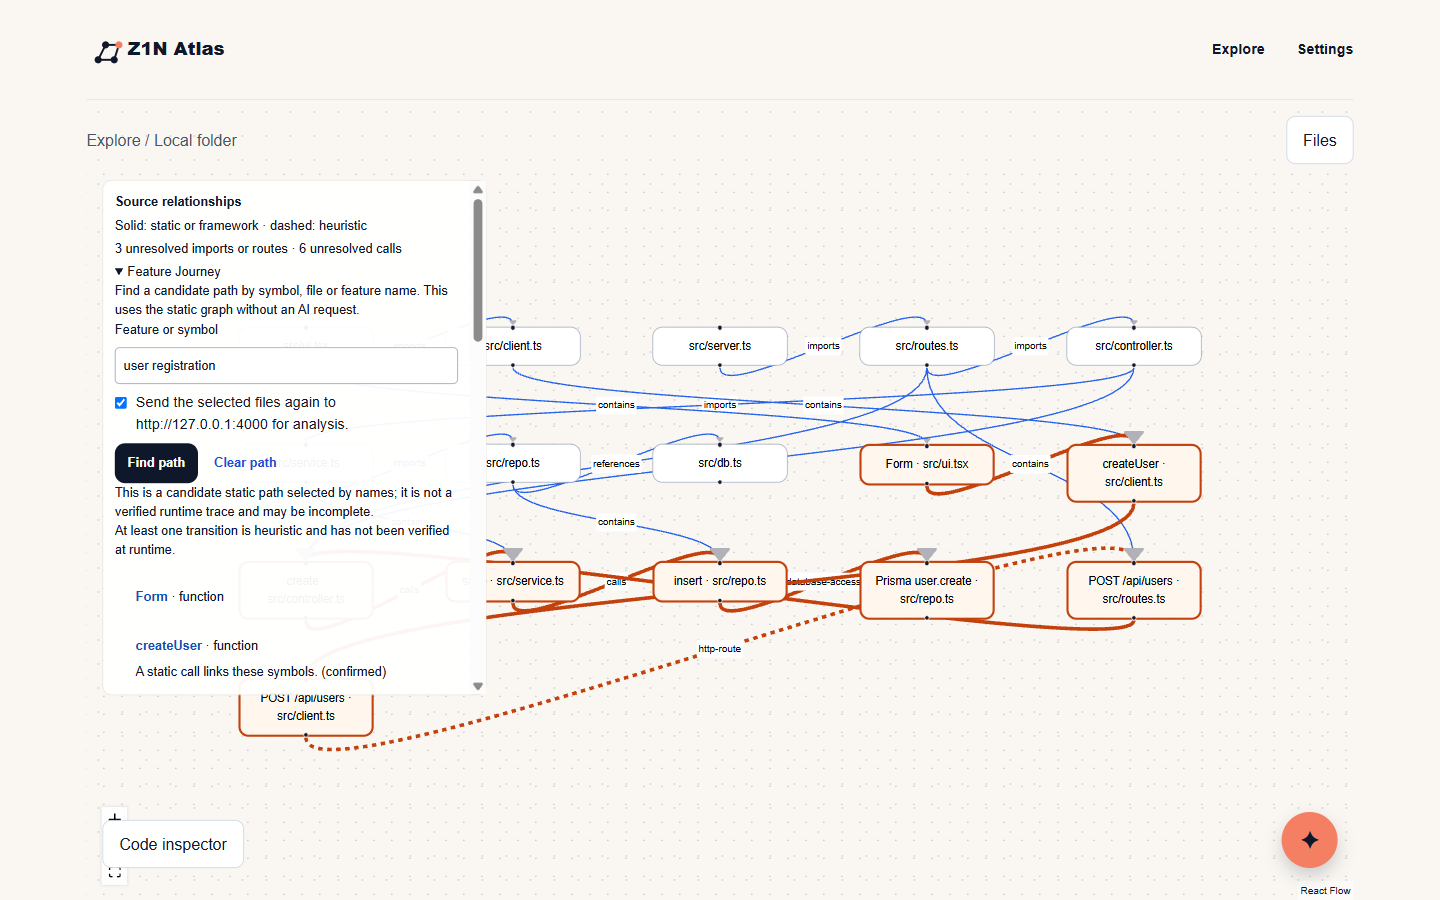
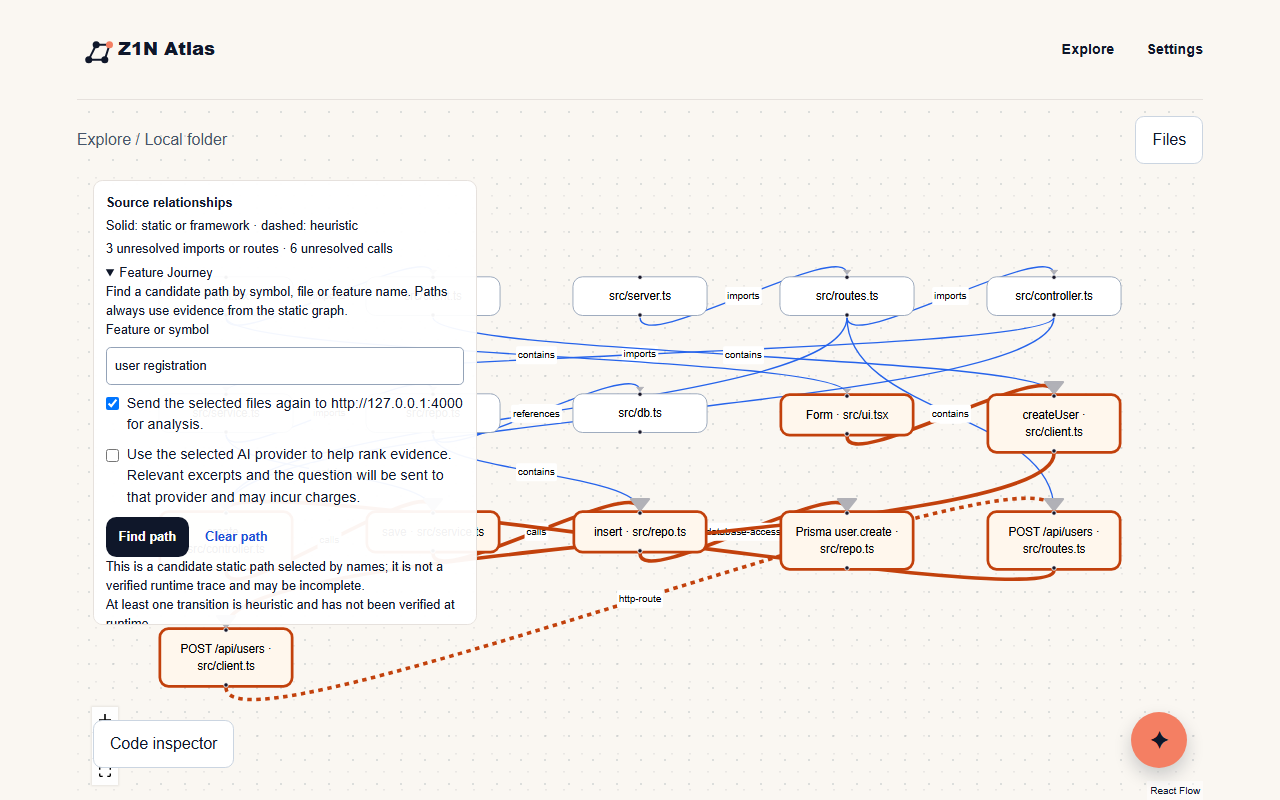
feat: guide feature paths with optional AI evidence

diff --git a/apps/web/src/features/graph/journey-panel.tsx b/apps/web/src/features/graph/journey-panel.tsx
@@ -3,6 +3,8 @@ import { useEffect, useRef, useState, type FormEvent } from "react";
 import type { CodeGraph, GraphEdge, Journey } from "@z1n/contracts";
 import type { RepositorySession } from "@/features/repository-import/repository-session";
 import { apiOriginLabel, requestJourney } from "@/lib/api-client";
+import { useProviderSession } from "@/features/provider-settings/provider-session";
+import Link from "next/link";
 
 const descriptions: Partial<Record<GraphEdge["kind"], string>> = {
   calls: "A static call links these symbols.",
@@ -28,13 +30,15 @@ export function JourneyPanel({
 }) {
   const [goal, setGoal] = useState("");
   const [consent, setConsent] = useState(false);
+  const [useAi, setUseAi] = useState(false);
+  const { session: provider } = useProviderSession();
   const [busy, setBusy] = useState(false);
   const [error, setError] = useState("");
   const pending = useRef<AbortController | null>(null);
   useEffect(() => () => pending.current?.abort(), []);
   async function submit(event: FormEvent) {
     event.preventDefault();
-    if (!consent) return;
+    if (!consent || (useAi && (!provider.apiKey || !provider.model))) return;
     pending.current?.abort();
     const controller = new AbortController();
     pending.current = controller;
@@ -48,6 +52,16 @@ export function JourneyPanel({
           origin: session.origin,
           consent: true,
           files: session.files.map(({ path, content }) => ({ path, content })),
+          ...(useAi
+            ? {
+                ai: {
+                  provider: provider.provider,
+                  apiKey: provider.apiKey,
+                  model: provider.model,
+                  providerConsent: true as const,
+                },
+              }
+            : {}),
         },
         graph,
         controller.signal,
@@ -71,8 +85,8 @@ export function JourneyPanel({
     <details className="journey-panel">
       <summary>Feature Journey</summary>
       <p>
-        Find a candidate path by symbol, file or feature name. This uses the
-        static graph without an AI request.
+        Find a candidate path by symbol, file or feature name. Paths always use
+        evidence from the static graph.
       </p>
       <form onSubmit={submit}>
         <label htmlFor="journey-goal">Feature or symbol</label>
@@ -94,6 +108,28 @@ export function JourneyPanel({
             Send the selected files again to {apiOriginLabel()} for analysis.
           </span>
         </label>
+        {provider.apiKey && provider.model ? (
+          <label className="assistant-consent">
+            <input
+              type="checkbox"
+              checked={useAi}
+              onChange={(event) => setUseAi(event.target.checked)}
+            />
+            <span>
+              Use the selected AI provider to help rank evidence. Relevant
+              excerpts and the question will be sent to that provider and may
+              incur charges.
+            </span>
+          </label>
+        ) : (
+          <p>
+            Optional AI-assisted ranking requires a provider and model in{" "}
+            <Link href="/settings" className="text-link">
+              Settings
+            </Link>
+            .
+          </p>
+        )}
         <div className="provider-actions">
           <button
             className="button provider-submit"

diff --git a/apps/api/src/journey/find-journey.ts b/apps/api/src/journey/find-journey.ts
@@ -27,7 +27,11 @@ const stop = new Set([
   "with",
   "from",
 ]);
-export function findJourney(goal: string, graph: CodeGraph): Journey {
+export function findJourney(
+  goal: string,
+  graph: CodeGraph,
+  evidencePaths: string[] = [],
+): Journey {
   const terms = [...new Set(goal.toLowerCase().match(/[a-z0-9_$]{3,}/g) ?? [])]
     .filter((word) => !stop.has(word))
     .slice(0, 8);
@@ -42,7 +46,8 @@ export function findJourney(goal: string, graph: CodeGraph): Journey {
     .filter(
       (node) =>
         node.kind !== "file" &&
-        terms.some((term) => text(node.id).includes(term)),
+        (terms.some((term) => text(node.id).includes(term)) ||
+          evidencePaths.includes(node.path)),
     )
     .slice(0, 60);
   const outgoing = new Map<string, GraphEdge[]>();
@@ -71,10 +76,17 @@ export function findJourney(goal: string, graph: CodeGraph): Journey {
   function visit(nodes: string[], edges: GraphEdge[]) {
     if (++explored > 10_000) return;
     const names = nodes.map(text).join(" ");
-    const relevance = terms.reduce(
-      (sum, term) => sum + (names.includes(term) ? 1 : 0),
-      0,
-    );
+    const relevance =
+      terms.reduce((sum, term) => sum + (names.includes(term) ? 1 : 0), 0) +
+      Math.min(
+        3,
+        new Set(
+          nodes
+            .map((id) => nodeMap.get(id)?.path)
+            .filter((path) => path && evidencePaths.includes(path)),
+        ).size,
+      ) *
+        2;
     if (relevance) {
       const score =
         relevance * 10 +
@@ -106,7 +118,9 @@ export function findJourney(goal: string, graph: CodeGraph): Journey {
     };
   const chosen: { nodes: string[]; edges: GraphEdge[]; score: number } = best;
   const uncertainties = [
-    "This is a candidate static path selected by names; it is not a verified runtime trace and may be incomplete.",
+    evidencePaths.length
+      ? "This candidate static path was ranked using names and AI-selected source evidence; it is not a verified runtime trace and may be incomplete."
+      : "This is a candidate static path selected by names; it is not a verified runtime trace and may be incomplete.",
   ];
   if (chosen.edges.some((edge) => edge.confidence === "heuristic"))
     uncertainties.push(

diff --git a/apps/api/src/app.test.ts b/apps/api/src/app.test.ts
@@ -1,6 +1,7 @@
 import { afterAll, beforeAll, describe, expect, it, vi } from "vitest";
 import type { FastifyInstance } from "fastify";
 import { createApp } from "./app";
+import { generateAnswer } from "./providers/generate-answer";
 vi.mock("./analyzer/run-analysis", () => ({
   AnalysisError: class extends Error {},
   runAnalysis: vi.fn(async () => ({
@@ -230,6 +231,43 @@ describe("chat HTTP boundary", () => {
   });
 });
 describe("journey HTTP boundary", () => {
+  it("requires consent before AI evidence selection", async () => {
+    vi.mocked(generateAnswer).mockClear();
+    const isolated = await createApp();
+    try {
+      const payload = {
+        goal: "login",
+        files: [{ path: "a.ts", content: "export function login() {}" }],
+        origin: "local",
+        consent: true,
+        ai: {
+          provider: "openai",
+          apiKey: "fake-key",
+          model: "demo",
+          providerConsent: false,
+        },
+      };
+      const invalid = await isolated.inject({
+        method: "POST",
+        url: "/api/journeys",
+        headers: { origin: "http://localhost:3000" },
+        payload,
+      });
+      expect(invalid.statusCode).toBe(400);
+      expect(generateAnswer).not.toHaveBeenCalled();
+      const valid = await isolated.inject({
+        method: "POST",
+        url: "/api/journeys",
+        headers: { origin: "http://localhost:3000" },
+        payload: { ...payload, ai: { ...payload.ai, providerConsent: true } },
+      });
+      expect(valid.statusCode).toBe(200);
+      expect(generateAnswer).toHaveBeenCalledOnce();
+      expect(valid.body).not.toContain("fake-key");
+    } finally {
+      await isolated.close();
+    }
+  });
   it("requires local consent and returns an explicit unknown for an empty graph", async () => {
     const isolated = await createApp();
     try {

diff --git a/apps/api/src/app.ts b/apps/api/src/app.ts
@@ -282,8 +282,42 @@ export async function createApp(
       );
       if (!graphIsValid(graph, input.data.files))
         throw new Error("Invalid graph.");
-      return journeySchema.parse(findJourney(input.data.goal, graph));
-    } catch {
+      let paths: string[] = [];
+      if (input.data.ai) {
+        const { provider, apiKey, model } = input.data.ai;
+        const answer = await answerQuestion(
+          input.data.goal,
+          input.data.files,
+          graph,
+          (context) =>
+            generateAnswer({ provider, apiKey, model }, context, abort.signal),
+        );
+        paths = [
+          ...new Set(
+            answer.claims.flatMap((claim) =>
+              claim.citations.map((citation) => citation.filePath),
+            ),
+          ),
+        ].slice(0, 10);
+      }
+      const journey = findJourney(input.data.goal, graph, paths);
+      if (input.data.ai && !paths.length)
+        journey.uncertainties.push(
+          "AI did not select validated evidence; this path was ranked by names alone.",
+        );
+      return journeySchema.parse(journey);
+    } catch (error) {
+      if (error instanceof ProviderError) {
+        const status =
+          error.code === "INVALID_KEY"
+            ? 401
+            : error.code === "FORBIDDEN"
+              ? 403
+              : error.code === "RATE_LIMIT"
+                ? 429
+                : 502;
+        return reply.code(status).send({ error: error.message });
+      }
       return reply
         .code(500)
         .send({ error: "The journey could not be computed. Try again." });

diff --git a/e2e/workspace.pw.ts b/e2e/workspace.pw.ts
@@ -19,7 +19,7 @@ const files: Record<string, string> = {
 };
 test("imports local source, analyzes a real graph, follows a journey and opens a chat citation", async ({
   page,
-}) => {
+}, testInfo) => {
   await page.addInitScript((fixture) => {
     Object.defineProperty(window, "showDirectoryPicker", {
       configurable: true,
@@ -101,6 +101,9 @@ test("imports local source, analyzes a real graph, follows a journey and opens a
   ).toBeVisible();
   await expect(page.getByLabel("Graph scope")).toHaveValue("files");
   await page.getByText("Feature Journey", { exact: true }).click();
+  await expect(
+    page.getByLabel(/Use the selected AI provider to help rank evidence/),
+  ).toBeVisible();
   await page.getByLabel("Feature or symbol").fill("user registration");
   await page.getByLabel(/Send the selected files again/).check();
   await page.getByRole("button", { name: "Find path" }).click();
@@ -114,6 +117,10 @@ test("imports local source, analyzes a real graph, follows a journey and opens a
   await expect(
     page.getByText("The request and route are a possible match."),
   ).toBeVisible();
+  if (testInfo.project.name === "desktop") {
+    await page.addStyleTag({ content: "nextjs-portal { display: none; }" });
+    await page.screenshot({ path: testInfo.outputPath("journey.png") });
+  }
   await page.getByRole("button", { name: "src/controller.ts:1" }).click();
   await expect(
     page.getByRole("dialog", { name: "Code inspector" }),

diff --git a/apps/api/src/journey/find-journey.test.ts b/apps/api/src/journey/find-journey.test.ts
@@ -49,6 +49,18 @@ const files = [
   },
 ];
 describe("feature journey selection", () => {
+  it("uses evidence-selected files only as ranking hints for real graph paths", () => {
+    const graph = analyzeFiles(files);
+    const journey = findJourney("payment", graph, ["src/ui.tsx"]);
+    expect(journeyIsValid(journey, graph)).toBe(true);
+    expect(journey.nodeIds.length).toBeGreaterThan(1);
+    expect(journey.uncertainties.join()).toContain(
+      "AI-selected source evidence",
+    );
+    expect(
+      journey.edgeIds.every((id) => graph.edges.some((edge) => edge.id === id)),
+    ).toBe(true);
+  });
   it("selects a real path from React through Express to Prisma with a heuristic warning", () => {
     const graph = analyzeFiles(files);
     const journey = findJourney("How does user registration work?", graph);

diff --git a/packages/contracts/src/journey.ts b/packages/contracts/src/journey.ts
@@ -1,5 +1,6 @@
 import { z } from "zod";
 import { analysisRequestSchema, sourceFileSchema } from "./http";
+import { providerTestRequestSchema } from "./providers";
 import type { CodeGraph } from "./graph/contracts";
 export const journeyRequestSchema = z
   .object({
@@ -7,6 +8,9 @@ export const journeyRequestSchema = z
     files: z.array(sourceFileSchema).max(25),
     origin: z.enum(["github", "local"]),
     consent: z.boolean(),
+    ai: providerTestRequestSchema
+      .extend({ providerConsent: z.literal(true) })
+      .optional(),
   })
   .strict()
   .superRefine((value, ctx) => {

diff --git a/README.md b/README.md
@@ -43,7 +43,7 @@ Provider keys are held in browser memory for the current tab and sent to the con
 
 For each assistant request, the app sends the selected files to the configured backend for analysis and bounded relevant excerpts to the selected AI provider after consent. Providers may retain submitted data according to their own policies. Only citations found in the analyzed selection are accepted, but a valid citation does not guarantee that the model's explanation is correct. The assistant can miss relevant evidence and is not a runtime trace. Requests may incur provider charges.
 
-Feature Journey sends the selection to the configured backend again with consent. It does not use an AI provider. Every displayed transition comes from the static graph; heuristic matches and missing boundaries are identified as uncertain. Ranking uses names and a bounded search rather than understanding the complete application.
+Feature Journey sends the selection to the configured backend again with consent. It can optionally send the question and relevant excerpts to the configured AI provider to help rank evidence; that option may incur charges. Every displayed transition comes from the static graph; heuristic matches and missing boundaries are identified as uncertain. Ranking uses names, optional AI-selected evidence and a bounded search rather than understanding the complete application.
 
 Imports are limited to 25 files, 100 KB per file and 1 MB total. Common secrets, generated directories and unsupported file types are excluded by path, but filters cannot detect every secret in source content. Review your selection before sharing. GitHub API rate limits may prevent imports. Per-process request limits are not a distributed rate limiter.
 
